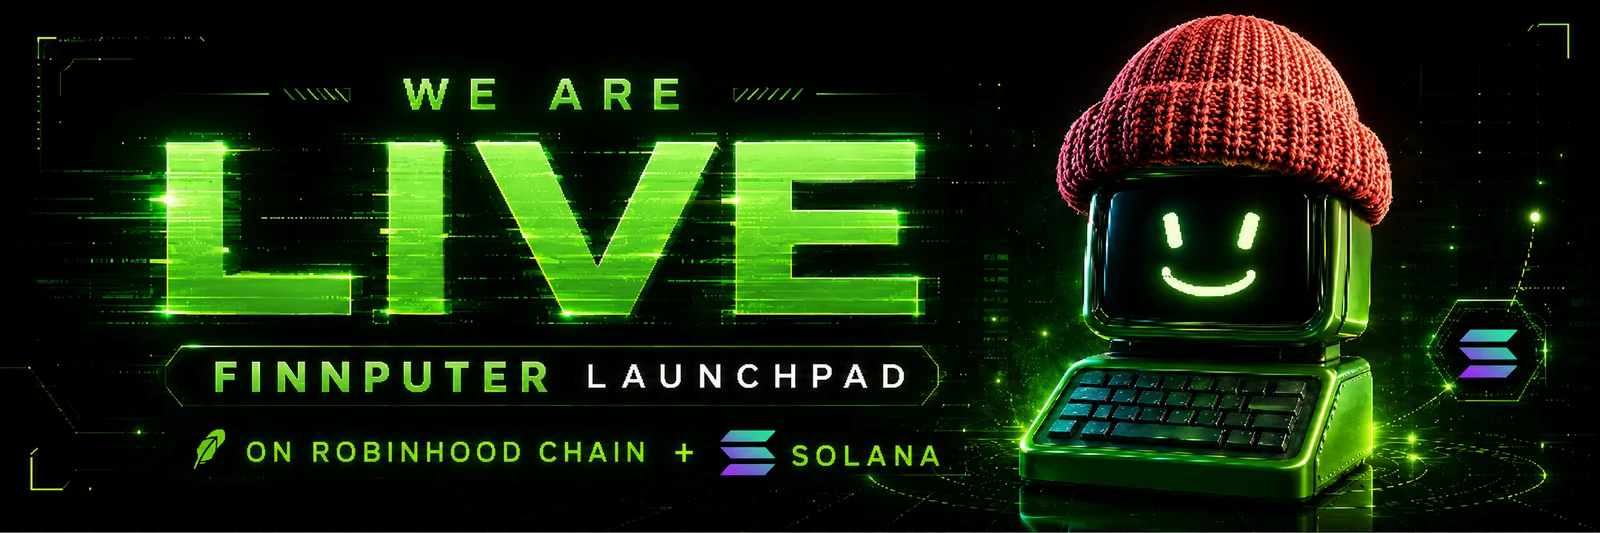
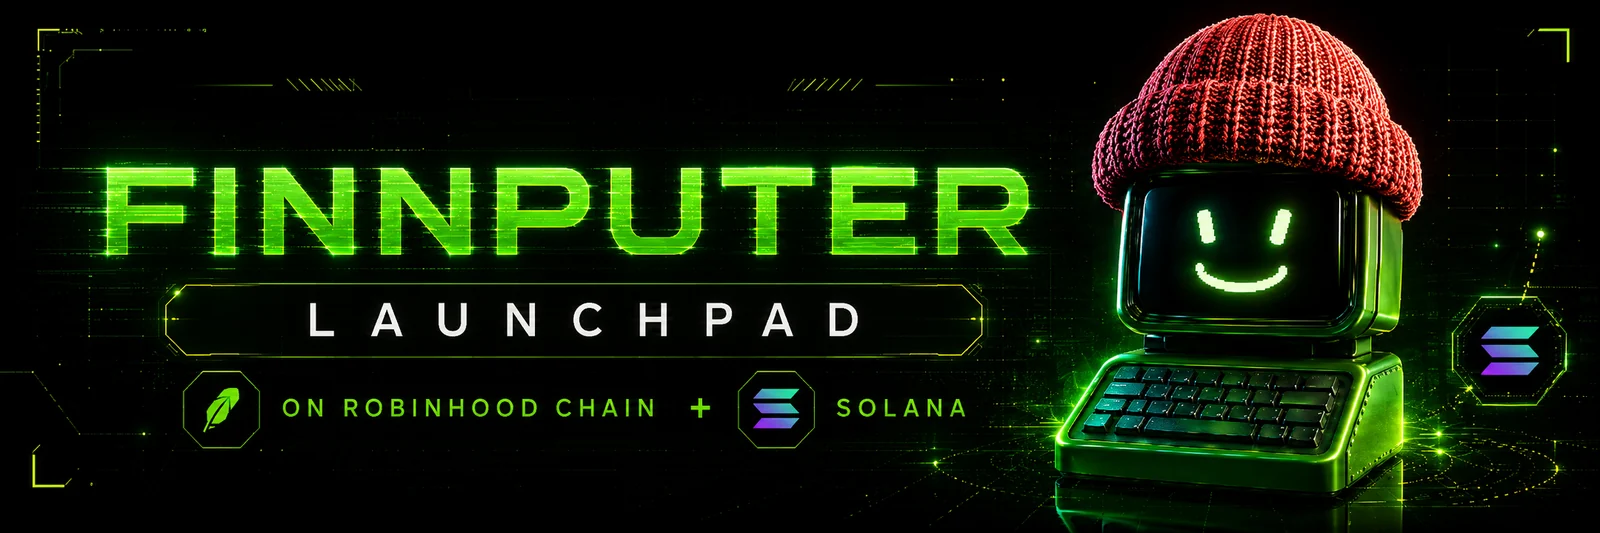
Add files via upload

diff --git a/index.html b/index.html
@@ -75,12 +75,12 @@
 
   /* ───── banner hero ───── */
   .hero {
-    margin: 0 auto 26px; max-width: 980px; padding: 0 8px;
+    margin: 0 auto 26px; max-width: 980px; padding: 14px 16px 0;
     position: relative; overflow: hidden;
     transition: transform .5s cubic-bezier(.2,.7,.2,1);
     will-change: transform;
   }
-  .hero img { width: 100%; height: auto; display: block; }
+  .hero img { width: 100%; height: auto; display: block; border-radius: 8px; }
   /* one power-on sweep across the glass, then it stays out of the way */
   .hero::after {
     content: ''; position: absolute; inset: 0; pointer-events: none;
@@ -97,8 +97,8 @@
   .hero .fallback small { display: block; font-size: 15px; letter-spacing: 0.36em; color: var(--paper); margin-top: 6px; }
 
   /* ───── header bar ───── */
-  .top { display: flex; align-items: center; justify-content: space-between; gap: 10px; flex-wrap: wrap; margin-bottom: 30px; }
-  .ctrls { display: flex; align-items: center; gap: 8px; margin-left: auto; }
+  .top { display: flex; align-items: center; justify-content: center; gap: 10px; flex-wrap: wrap; margin-bottom: 18px; }
+  .ctrls { display: flex; align-items: center; justify-content: center; gap: 8px; flex-wrap: wrap; }
   .chip {
     display: inline-flex; align-items: center; gap: 7px;
     font-size: 10.5px; letter-spacing: 0.14em; text-transform: uppercase;
@@ -143,12 +143,12 @@
 
   /* ───── console strip: the mascot's screen as status light ───── */
   .console {
-    display: flex; align-items: center; gap: 14px;
+    display: flex; align-items: center; justify-content: center; gap: 14px;
     background: #000; border: 1px solid var(--edge);
-    padding: 12px 16px; margin-bottom: 34px; border-radius: 4px;
+    padding: 14px 16px; margin-bottom: 34px; border-radius: 4px;
     box-shadow: 0 0 30px -8px #7bdd3426 inset;
   }
-  .status { font-size: 11.5px; letter-spacing: 0.14em; text-transform: uppercase; color: var(--mute); }
+  .status { font-size: 11.5px; letter-spacing: 0.14em; text-transform: uppercase; color: var(--mute); text-align: center; }
   .status[data-tone="ok"]  { color: var(--brand); }
   .status[data-tone="bad"] { color: var(--coral); }
   @media (prefers-reduced-motion: reduce) {
@@ -213,6 +213,8 @@
   }
   .need-list b { display: block; font-size: 13px; font-weight: 600; color: var(--paper); margin-bottom: 2px; }
   .need-list span { font-size: 11.5px; color: var(--mute); line-height: 1.55; }
+  .need-list span b { color: var(--paper); font-weight: 600; }
+  .fee-live { color: var(--brand) !important; }
   .need-foot { margin-top: 14px; font-size: 10.5px; color: #55634d; letter-spacing: 0.02em; }
   .need-mobile { display: none; margin-top: 10px; padding: 10px 12px; font-size: 11px; line-height: 1.5;
     color: var(--brand); background: #7bdd340d; border: 1px solid var(--brand-lo); border-radius: 4px; }
@@ -422,6 +424,26 @@
   .trade-alt:hover { color: var(--brand); border-color: var(--brand-lo); }
 
   footer { margin-top: 54px; padding-top: 18px; border-top: 1px solid var(--edge); font-size: 10.5px; color: #45513f; line-height: 1.8; word-break: break-all; }
+
+  /* ───── mobile ───── */
+  @media (max-width: 560px) {
+    body { padding-bottom: 60px; }
+    .wrap { padding: 0 14px; }
+    .hero { padding: 10px 12px 0; margin-bottom: 20px; }
+    .top { margin-bottom: 16px; }
+    .ctrls { width: 100%; }
+    .chip { flex: 1; justify-content: center; }
+    #connect { flex: 1; }
+    .thesis { font-size: 21px; line-height: 1.25; }
+    .sub { font-size: 12px; margin-bottom: 28px; }
+    .console { padding: 12px; margin-bottom: 26px; }
+    .tabs { gap: 4px; }
+    .tab { padding: 12px 6px; font-size: 10px; letter-spacing: 0.08em; }
+    .row { padding: 12px; }
+    .ledger-h { padding: 9px 12px; }
+    .key-go { padding: 16px; font-size: 13px; letter-spacing: 0.14em; }
+    footer { margin-top: 40px; }
+  }
 </style>
 </head>
 <body>
@@ -458,7 +480,7 @@
     <div class="need-h">What you need to launch on Robinhood Chain</div>
     <ol class="need-list">
       <li><b>An EVM wallet</b><span>MetaMask, Rabby or any browser wallet. Connect it above and switch to Robinhood Chain (4663).</span></li>
-      <li><b>ETH on Robinhood Chain</b><span>Covers the one-time creation fee plus a little gas. No ETH on 4663 yet? Bridge over first.</span></li>
+      <li><b>ETH on Robinhood Chain</b><span>You need at least <b id="rhFeeLive" class="fee-live">the creation fee</b> plus a little gas. No ETH on 4663 yet? Bridge over first.</span></li>
       <li><b>A name, ticker and image</b><span>Fill the form below. The image is pinned automatically — no IPFS knowledge needed.</span></li>
     </ol>
     <p class="need-foot">You sign the launch yourself. This page never holds your keys.</p>
@@ -469,7 +491,7 @@
     <div class="need-h">What you need to launch on Solana</div>
     <ol class="need-list">
       <li><b>A Solana wallet</b><span>Phantom, Solflare, Backpack or any Solana wallet. Connect it in the Solana tab.</span></li>
-      <li><b>SOL in that wallet</b><span>Roughly 0.05–0.1 SOL covers the network tip, rent and fees. More if you want an initial buy.</span></li>
+      <li><b>SOL in that wallet</b><span>Keep at least <b class="fee-live">~0.05 SOL</b> for the network tip, rent and fees — more if you want an initial buy.</span></li>
       <li><b>A name, ticker and image</b><span>Fill the form. On Solana the image and metadata are hosted for you — nothing to pin.</span></li>
     </ol>
     <p class="need-foot">You sign every transaction yourself. This page never holds your keys.</p>
@@ -743,6 +765,12 @@ let creationFee = null;
       publicClient.readContract({ address: ADDR.factory, abi: factoryAbi, functionName: 'partnerFeeBps' }),
     ]);
     creationFee = fee;
+    // Show the real creation fee in the "what you need" box, read live.
+    const el = document.getElementById('rhFeeLive');
+    if (el) {
+      const eth = Number(formatEther(fee));
+      el.textContent = eth === 0 ? 'no creation fee' : `${eth.toLocaleString('en-US',{maximumFractionDigits:4})} ETH`;
+    }
     if (partnerSet) {
       const pad = Number(bps) / 10000;
       $('padCut').textContent = pad.toFixed(2) + '%';